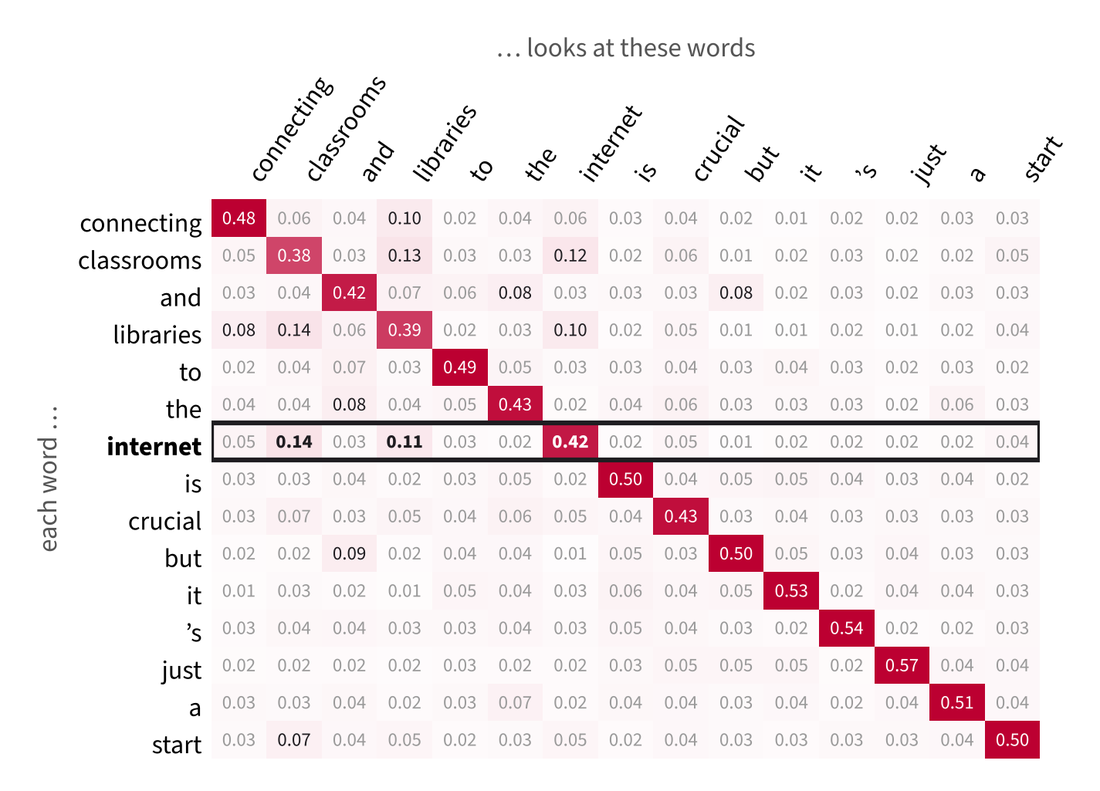
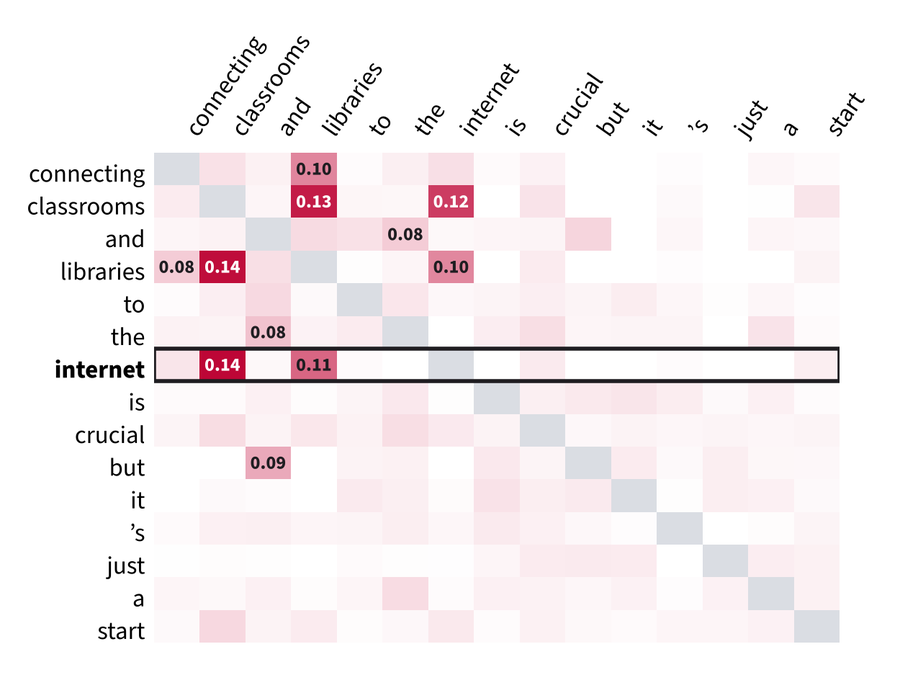
Week 4 code along 10: calmer attention table

diff --git a/code-along/week4/index.html b/code-along/week4/index.html
@@ -112,7 +112,7 @@ pre.py .sh { color: #6B6B6B; }                     /* !pip and %magic lines */
 </div>
 
 <script>
-  var IMG = {"weights": [{"src": "img/tutor-weights.png", "w": 768, "h": 442, "alt": "Python Tutor: doc1, doc2, doc3 point to lists of words; counts and weights point to dictionaries for the last document.", "cap": "Python Tutor at the last step: counts and weights hold the last document, because the loop fills them again for every document."}], "tfidf": [{"src": "img/tutor-tfidf.png", "w": 791, "h": 394, "alt": "Python Tutor after the tf-idf loop, with the three cleaned documents as lists and the printed scores.", "cap": "Python Tutor at the last step: the variables on the left, the lists and dictionaries they point to on the right."}], "listcomp": [{"src": "img/tutor-listcomp.png", "w": 740, "h": 308, "alt": "Python Tutor: words with The House has a Garden, and newlist with the same words in small letters.", "cap": "Python Tutor at the last step: the loop and the list comprehension give the same newlist."}], "sotu": [{"src": "img/w4-freedom.png", "w": 610, "h": 509, "alt": "Line chart of freedom per 1,000 words by decade from 1790 to 2020, highest in the 1950s and 2000s.", "cap": "The chart from the code: \"freedom\" per 1,000 words, by decade."}], "attentionsotu": [{"src": "img/w4-attention-table.png", "w": 1100, "h": 791, "alt": "A 15 by 15 table of attention weights for Clinton’s sentence; the row for internet is outlined.", "cap": "The whole table, as on slide 56. Each word looks most at itself; classrooms and libraries look at each other."}]};
+  var IMG = {"weights": [{"src": "img/tutor-weights.png", "w": 768, "h": 442, "alt": "Python Tutor: doc1, doc2, doc3 point to lists of words; counts and weights point to dictionaries for the last document.", "cap": "Python Tutor at the last step: counts and weights hold the last document, because the loop fills them again for every document."}], "tfidf": [{"src": "img/tutor-tfidf.png", "w": 791, "h": 394, "alt": "Python Tutor after the tf-idf loop, with the three cleaned documents as lists and the printed scores.", "cap": "Python Tutor at the last step: the variables on the left, the lists and dictionaries they point to on the right."}], "listcomp": [{"src": "img/tutor-listcomp.png", "w": 740, "h": 308, "alt": "Python Tutor: words with The House has a Garden, and newlist with the same words in small letters.", "cap": "Python Tutor at the last step: the loop and the list comprehension give the same newlist."}], "sotu": [{"src": "img/w4-freedom.png", "w": 610, "h": 509, "alt": "Line chart of freedom per 1,000 words by decade from 1790 to 2020, highest in the 1950s and 2000s.", "cap": "The chart from the code: \"freedom\" per 1,000 words, by decade."}], "attentionsotu": [{"src": "img/w4-attention-table.png", "w": 900, "h": 675, "alt": "The attention table for Clinton’s sentence; the word itself in grey, the row for internet outlined.", "cap": "The table as on slide 56: grey is the word itself, the colours show the other words, and only the bigger numbers are written in. Your Colab table shows every number."}]};
   function figs(list) {
     if (!list) return '';
     return list.map(function (f) {
